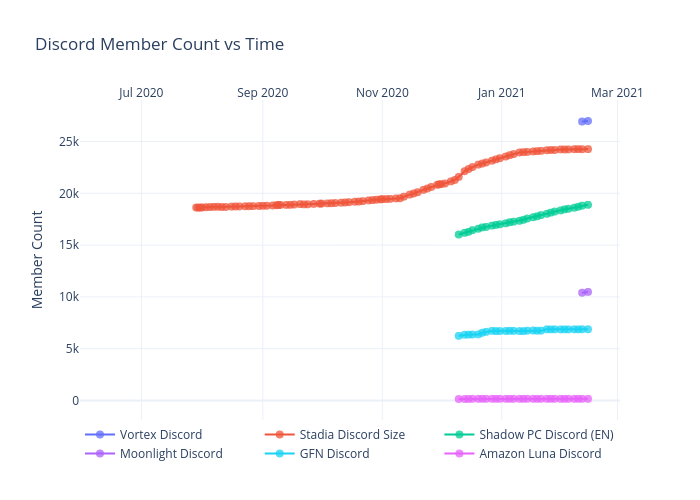
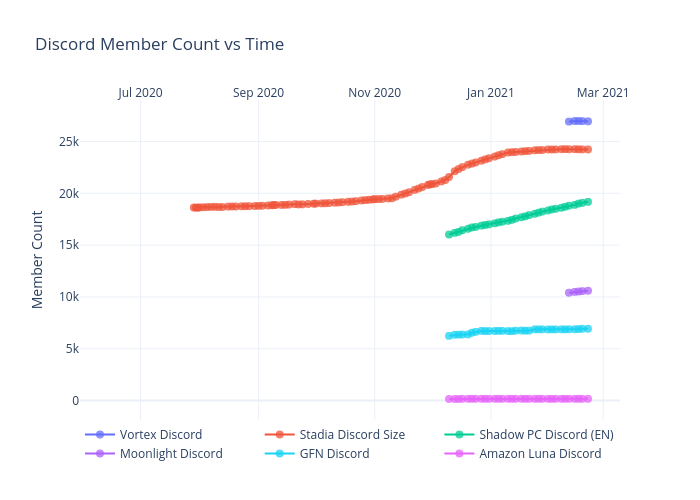
Add files via upload

diff --git a/discord/figure.js b/discord/figure.js
@@ -106,7 +106,10 @@ var figure = {
                 "2021-02-07",
                 "2021-02-09",
                 "2021-02-11",
-                "2021-02-14"
+                "2021-02-14",
+                "2021-02-16",
+                "2021-02-18",
+                "2021-02-21"
             ],
             "ysrc": "jdeslip:374:da5b35",
             "y": [
@@ -204,7 +207,10 @@ var figure = {
                 null,
                 "",
                 "26928",
-                "26979"
+                "26979",
+                "26984",
+                "26974",
+                "26951"
             ],
             "marker": {
                 "size": 8,
@@ -320,7 +326,10 @@ var figure = {
                 "2021-02-07",
                 "2021-02-09",
                 "2021-02-11",
-                "2021-02-14"
+                "2021-02-14",
+                "2021-02-16",
+                "2021-02-18",
+                "2021-02-21"
             ],
             "ysrc": "jdeslip:374:7ac37c",
             "y": [
@@ -418,7 +427,10 @@ var figure = {
                 "24259",
                 "24269",
                 "24254",
-                "24265"
+                "24265",
+                "24256",
+                "24240",
+                "24236"
             ],
             "marker": {
                 "size": 8,
@@ -534,7 +546,10 @@ var figure = {
                 "2021-02-07",
                 "2021-02-09",
                 "2021-02-11",
-                "2021-02-14"
+                "2021-02-14",
+                "2021-02-16",
+                "2021-02-18",
+                "2021-02-21"
             ],
             "ysrc": "jdeslip:374:c98e1c",
             "y": [
@@ -632,7 +647,10 @@ var figure = {
                 "18608",
                 "18702",
                 "18809",
-                "18886"
+                "18886",
+                "19010",
+                "19078",
+                "19181"
             ],
             "marker": {
                 "size": 8,
@@ -748,7 +766,10 @@ var figure = {
                 "2021-02-07",
                 "2021-02-09",
                 "2021-02-11",
-                "2021-02-14"
+                "2021-02-14",
+                "2021-02-16",
+                "2021-02-18",
+                "2021-02-21"
             ],
             "ysrc": "jdeslip:374:bae53e",
             "y": [
@@ -846,7 +867,10 @@ var figure = {
                 null,
                 "",
                 "10405",
-                "10482"
+                "10482",
+                "10523",
+                "10561",
+                "10597"
             ],
             "marker": {
                 "size": 8,
@@ -962,7 +986,10 @@ var figure = {
                 "2021-02-07",
                 "2021-02-09",
                 "2021-02-11",
-                "2021-02-14"
+                "2021-02-14",
+                "2021-02-16",
+                "2021-02-18",
+                "2021-02-21"
             ],
             "ysrc": "jdeslip:374:08922f",
             "y": [
@@ -1060,7 +1087,10 @@ var figure = {
                 "6872",
                 "6869",
                 "6877",
-                "6877"
+                "6877",
+                "6897",
+                "6924",
+                "6929"
             ],
             "marker": {
                 "size": 8,
@@ -1176,7 +1206,10 @@ var figure = {
                 "2021-02-07",
                 "2021-02-09",
                 "2021-02-11",
-                "2021-02-14"
+                "2021-02-14",
+                "2021-02-16",
+                "2021-02-18",
+                "2021-02-21"
             ],
             "ysrc": "jdeslip:374:3547f6",
             "y": [
@@ -1274,7 +1307,10 @@ var figure = {
                 "162",
                 "164",
                 "164",
-                "162"
+                "162",
+                "163",
+                "162",
+                "165"
             ],
             "marker": {
                 "size": 8,
@@ -1293,8 +1329,8 @@ var figure = {
             "side": "top",
             "type": "date",
             "range": [
-                "2020-05-31 23:24:37.8091",
-                "2021-03-01 00:35:22.1909"
+                "2020-05-31 13:01:23.3427",
+                "2021-03-08 10:58:36.6573"
             ],
             "title": {
                 "text": ""
@@ -1304,8 +1340,8 @@ var figure = {
         "yaxis": {
             "type": "linear",
             "range": [
-                -1773.95407428736,
-                28898.95407428736
+                -1774.311834149151,
+                28904.31183414915
             ],
             "title": {
                 "text": "Member Count"
